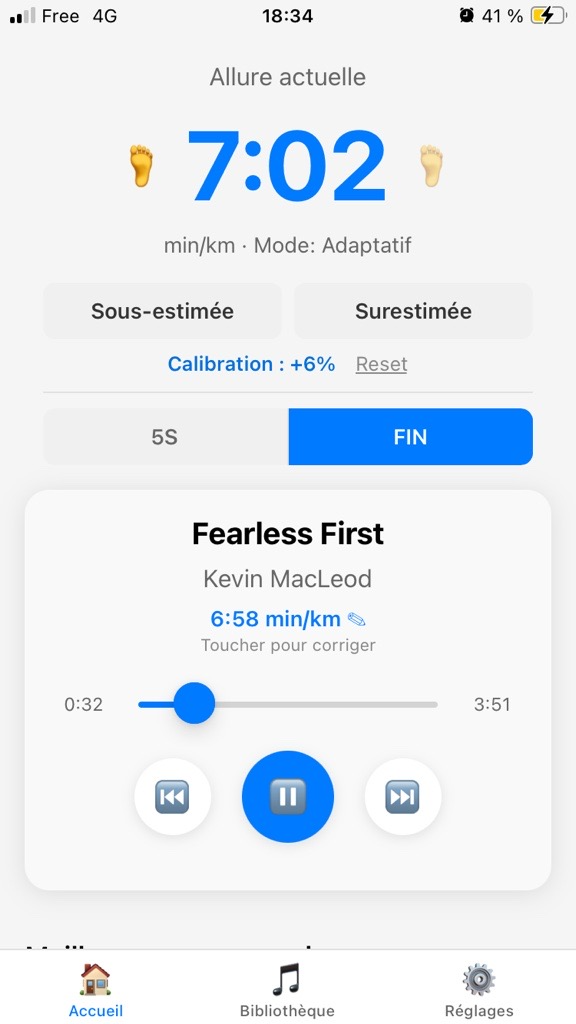
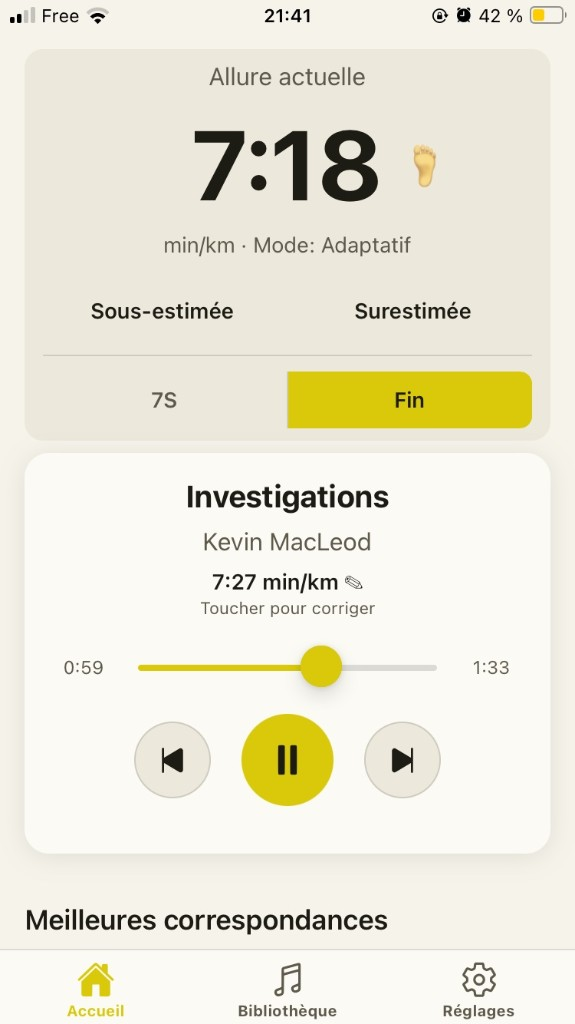
Freeze the locked-pace viz, randomize the mismatch dots, and refresh app screenshots.

diff --git a/index.html b/index.html
@@ -118,10 +118,7 @@
         <article class="split-card split-bad">
           <div class="beat-viz" aria-hidden="true">
             <p class="beat-read">
-              <span class="beat-swap">
-                <span>90</span>
-                <span>172</span>
-              </span>
+              <span>90</span>
               <span class="beat-unit">BPM</span>
               <span class="beat-op">≠</span>
               <span>134</span>
@@ -146,7 +143,7 @@
               <span>134</span>
               <span class="beat-unit">PPM</span>
             </p>
-            <div class="beat-track beat-track-sync">
+            <div class="beat-track">
               <i class="beat-dot beat-dot-music"></i>
               <i class="beat-dot beat-dot-steps"></i>
             </div>
@@ -320,7 +317,7 @@
     <section class="shots reveal-stagger" aria-label="Aperçu de l’app">
       <figure class="shot">
         <div class="phone">
-          <img src="screenshot-home.png" width="390" height="844" alt="BeatOnStep : allure en min/km et lecteur" />
+          <img src="screenshot-home.png" width="575" height="1024" alt="BeatOnStep : allure en min/km et lecteur" />
         </div>
         <figcaption>
           <strong data-fr>En run</strong>
@@ -331,18 +328,18 @@
       </figure>
       <figure class="shot">
         <div class="phone">
-          <img src="screenshot-pace.png" width="390" height="844" alt="Accueil : allure en min/km et calibration" />
+          <img src="screenshot-pace.png" width="575" height="1024" alt="Réglages : Adaptatif, allure en min/km et changement de titre" />
         </div>
         <figcaption>
-          <strong data-fr>Ton allure</strong>
-          <strong data-en>Your pace</strong>
-          <span data-fr>En min/km, comme une montre.</span>
-          <span data-en>In min/km, like a watch.</span>
+          <strong data-fr>Réglages</strong>
+          <strong data-en>Settings</strong>
+          <span data-fr>Adaptatif, allure en min/km. Tu choisis quand le titre change.</span>
+          <span data-en>Adaptive, pace in min/km. You pick when the track changes.</span>
         </figcaption>
       </figure>
       <figure class="shot">
         <div class="phone">
-          <img src="screenshot-library.png" width="390" height="844" alt="Bibliothèque : musiques téléphone, mix inclus et YouTube Music" />
+          <img src="screenshot-library.png" width="575" height="1024" alt="Bibliothèque : mix inclus et sources" />
         </div>
         <figcaption>
           <strong data-fr>Ta musique</strong>
@@ -774,6 +771,56 @@
       progress();
       window.addEventListener("scroll", progress, { passive: true });
       window.addEventListener("resize", progress);
+
+      (function mismatchDots() {
+        var track = document.querySelector(".split-bad .beat-track");
+        var music = document.querySelector(".split-bad .beat-dot-music");
+        var steps = document.querySelector(".split-bad .beat-dot-steps");
+        if (!track || !music || !steps) return;
+
+        function hsl(h) {
+          return "hsl(" + h + " 78% 58%)";
+        }
+        var hMusic = Math.floor(Math.random() * 360);
+        var hSteps = (hMusic + 90 + Math.floor(Math.random() * 140)) % 360;
+        music.style.background = hsl(hMusic);
+        music.style.boxShadow = "0 0 10px " + hsl(hMusic);
+        steps.style.background = hsl(hSteps);
+        steps.style.boxShadow = "0 0 10px " + hsl(hSteps);
+
+        if (reduce) return;
+
+        var dots = [
+          { el: music, x: 0.12, v: 0.28 + Math.random() * 0.55 },
+          { el: steps, x: 0.68, v: -(0.22 + Math.random() * 0.6) }
+        ];
+        var last = 0;
+
+        function maxX(el) {
+          return Math.max(0, track.clientWidth - el.offsetWidth);
+        }
+        function tick(ts) {
+          if (!last) last = ts;
+          var dt = Math.min(0.05, (ts - last) / 1000);
+          last = ts;
+          dots.forEach(function (d) {
+            d.x += d.v * dt;
+            if (d.x <= 0) {
+              d.x = 0;
+              d.v = 0.18 + Math.random() * 0.7;
+            } else if (d.x >= 1) {
+              d.x = 1;
+              d.v = -(0.18 + Math.random() * 0.7);
+            } else if (Math.random() < 0.012) {
+              d.v += (Math.random() - 0.5) * 0.5;
+              if (Math.abs(d.v) < 0.12) d.v = (d.v < 0 ? -1 : 1) * (0.18 + Math.random() * 0.4);
+            }
+            d.el.style.left = d.x * maxX(d.el) + "px";
+          });
+          requestAnimationFrame(tick);
+        }
+        requestAnimationFrame(tick);
+      })();
 
       (function paceLock() {
         var root = document.querySelector("[data-pace-lock]");

diff --git a/site.css b/site.css
@@ -597,30 +597,6 @@ footer a:hover { color: var(--accent); }
 .beat-op-ok {
   color: var(--accent);
 }
-.beat-swap {
-  display: inline-grid;
-  justify-items: end;
-  min-width: 2.1ch;
-}
-.beat-swap span {
-  grid-area: 1 / 1;
-}
-.split.is-in .beat-swap span:first-child {
-  animation: beat-swap-a 5s ease-in-out infinite;
-}
-.split.is-in .beat-swap span:last-child {
-  animation: beat-swap-b 5s ease-in-out infinite;
-}
-@keyframes beat-swap-a {
-  0%, 42% { opacity: 1; }
-  50%, 92% { opacity: 0; }
-  100% { opacity: 1; }
-}
-@keyframes beat-swap-b {
-  0%, 42% { opacity: 0; }
-  50%, 92% { opacity: 1; }
-  100% { opacity: 0; }
-}
 .beat-track {
   position: relative;
   height: 1.35rem;
@@ -635,54 +611,21 @@ footer a:hover { color: var(--accent); }
   height: 0.72rem;
   margin-top: -0.36rem;
   border-radius: 50%;
-  left: 6%;
-}
-.split-bad .beat-dot-music {
-  background: #ff8f8f;
-  box-shadow: 0 0 10px rgba(255, 143, 143, 0.55);
-}
-.split-bad .beat-dot-steps {
-  background: var(--ink);
-  opacity: 0.7;
+  left: 8%;
+  will-change: left;
 }
 .split-good .beat-dot-music,
 .split-good .beat-dot-steps {
+  left: 50%;
+  transform: translateX(-50%);
   background: var(--accent);
   box-shadow: 0 0 12px rgba(252, 234, 7, 0.55);
+  will-change: auto;
 }
 .split-good .beat-dot-steps {
   width: 0.48rem;
   height: 0.48rem;
   margin-top: -0.24rem;
-}
-.split.is-in .split-bad .beat-dot-music {
-  animation: beat-run 1.55s linear infinite;
-}
-.split.is-in .split-bad .beat-dot-steps {
-  animation: beat-run 0.92s linear infinite;
-}
-.split.is-in .split-good .beat-dot-music,
-.split.is-in .split-good .beat-dot-steps {
-  animation: beat-run 0.72s linear infinite;
-}
-@keyframes beat-run {
-  0% { left: 6%; }
-  100% { left: calc(94% - 0.72rem); }
-}
-.split.is-in .split-bad {
-  animation: split-bad-pulse 5s ease-in-out infinite;
-}
-.split.is-in .split-good {
-  animation: split-good-glow 1.44s ease-in-out infinite;
-}
-@keyframes split-bad-pulse {
-  0%, 42% { border-color: rgba(255, 92, 92, 0.7); }
-  50%, 92% { border-color: rgba(255, 92, 92, 0.35); }
-  100% { border-color: rgba(255, 92, 92, 0.7); }
-}
-@keyframes split-good-glow {
-  0%, 100% { box-shadow: 0 0 0 0 rgba(252, 234, 7, 0); }
-  50% { box-shadow: 0 0 0 3px rgba(252, 234, 7, 0.18); }
 }
 .split-bad {
   border: 1px solid rgba(255, 92, 92, 0.45);
@@ -1622,21 +1565,10 @@ html.js .reveal-stagger.is-in > *:nth-child(4) { transition-delay: 0.34s; }
     transition: none;
   }
   .split.is-in .split-pain-slow,
-  .split.is-in .split-pain-fast,
-  .split.is-in .beat-swap span:first-child,
-  .split.is-in .beat-swap span:last-child,
-  .split.is-in .split-bad .beat-dot-music,
-  .split.is-in .split-bad .beat-dot-steps,
-  .split.is-in .split-good .beat-dot-music,
-  .split.is-in .split-good .beat-dot-steps,
-  .split.is-in .split-bad,
-  .split.is-in .split-good {
+  .split.is-in .split-pain-fast {
     animation: none;
   }
   .split-pain-slow { color: #ff8f8f; }
-  .beat-swap span:last-child { opacity: 0; }
   .split-bad .beat-dot-music { left: 18%; }
   .split-bad .beat-dot-steps { left: 62%; }
-  .split-good .beat-dot-music,
-  .split-good .beat-dot-steps { left: 46%; }
 }
